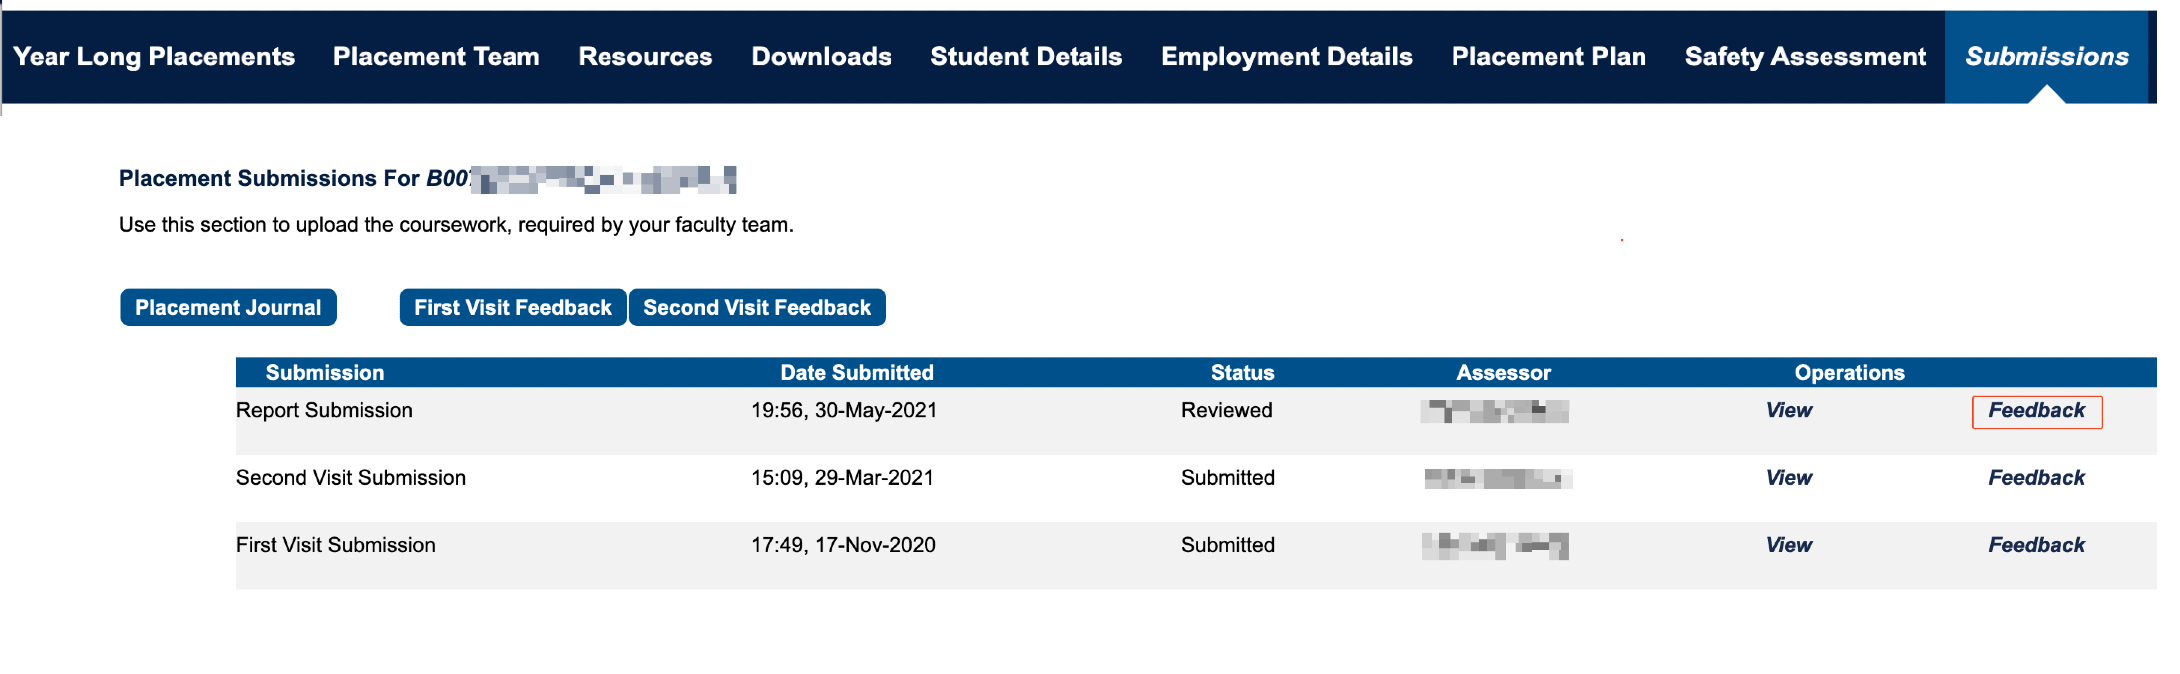
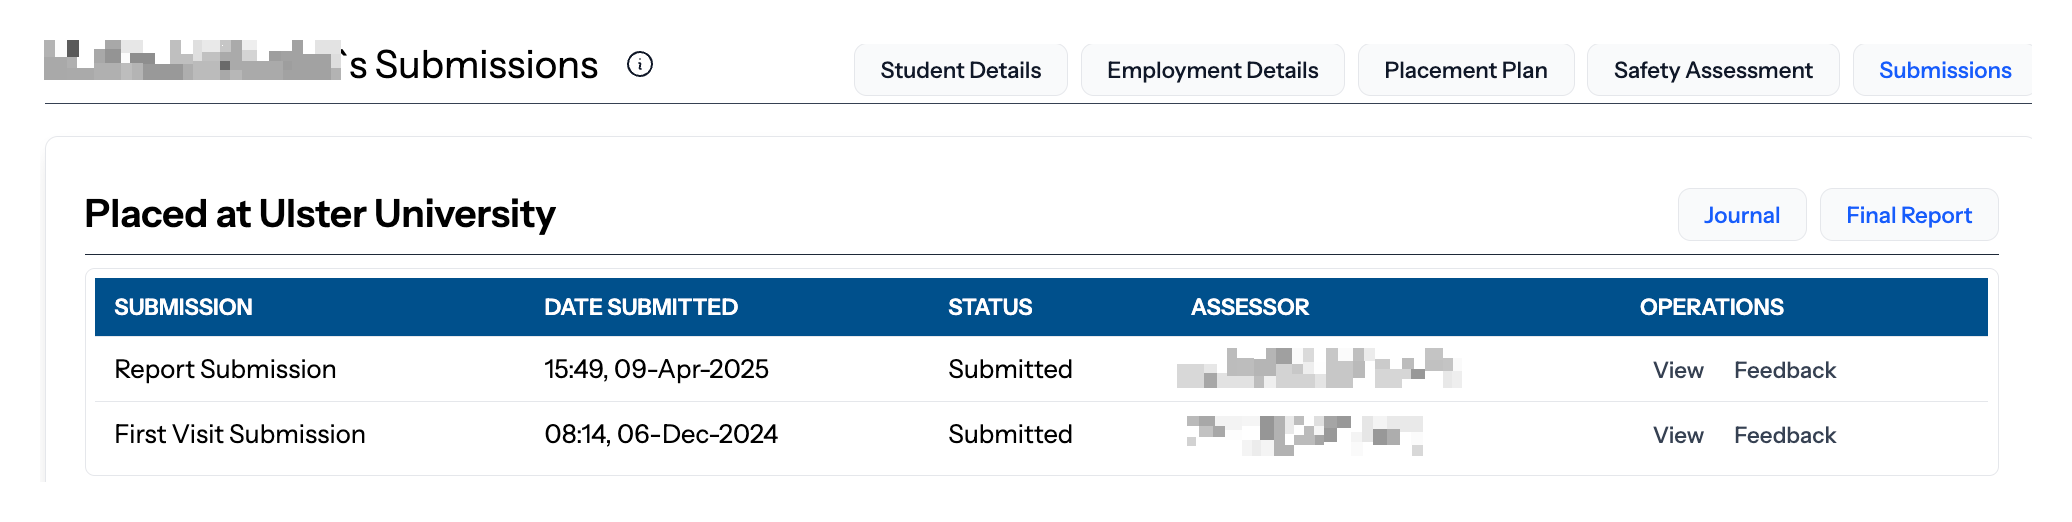
Updated to new Recruit Student UI

diff --git a/src/content/docs/recruit/student.md b/src/content/docs/recruit/student.md
@@ -25,47 +25,13 @@ Once you have been offered a placement post you need to log the offer on the Rec
 
 If you applied for the post via Handshake, then it will be recorded in your list of applications on Recruit.
 
-To log an application, navigate to **Year Long Placements**, then under **Applications** select the application you have been offered and click the **Confirm Offer** link.
+To log an application, navigate to **Applications**, then under **Placements** select the application you have been offered and click the **Confirm** link.
 
 ![img](/recruit/student/8-handshake-1.png)
 
 Now complete the form below and upload a document containing evidence that you have been offered the post.
 
 ![img](/recruit/student/8-handshake-2.png)
-
-### Unapproved Post
-
-Where a post was not advertised on Handshake it **must go through an approvals process** to have it verified as suitable. To log an application, navigate to **Year Long Placements**, then **Applications**, then **External Applications** as shown below.
-
-![img](/recruit/student/8-external-1.png)
-
-Then select **Log an External Application** as shown below
-
-![img](/recruit/student/8-external-2.png)
-
-Complete the application form shown below. Please provide as much detail as possible. You must also upload a document containing suitable evidence that the post has been offered as a placement (copy of a job offer - letter/email etc).
-
-![img](/recruit/student/8-external-3.png)
-
-### Confirming Offer
-
-If you have been offered an post logged via an external application you should select the post from the list of external applications and click the 'Confirm Offer' link as shown below.
-
-![img](/recruit/student/8-external-offer-1.png)
-
-You should then complete the form adding a supporting statement and upload a pdf containing evidence that you have been offered the post (copy of an offer letter/email, contract etc).
-
-![img](/recruit/student/8-external-offer-2.png)
-
-Once submitted the system will send the following confirmation email.
-
-![img](/recruit/student/8-external-offer-4.png)
-
-#### Retract Offer
-
-If for any reason you wish to retract a confirmed offer, then from the list of external applications, select the post and click the 'Retract Offer' link as shown below.
-
-![img](/recruit/student/8-external-offer-3.png)
 
 ### Confirmation Email
 
@@ -74,6 +40,45 @@ Once you have completed one of the above steps and your post has been approved, 
 ![img](/recruit/student/8-confirm-email.png)
 
 >⚠ **NOTE** You will only receive this email when your placement been approved
+
+### Retract Offer
+
+If for any reason you wish to retract a confirmed offer, then from the list of placement applications, select the post and click the **Retract** link as shown below.
+
+![img](/recruit/student/8-external-offer-3.png)
+
+### External Offer
+
+Where a post was not advertised on Handshake it is unapproved and **must go through an approvals process** to have it verified as suitable. To log an application, navigate to **Applications**, then **Placement**, then select the **External** tab as shown below, before finally clicking the **Log External Application** as shown below
+
+![img](/recruit/student/8-external-1.png)
+
+Complete the application form shown below. Please provide as much detail as possible. You must also upload a document containing suitable evidence that the post has been offered as a placement (copy of a job offer - letter/email etc).
+
+![img](/recruit/student/8-external-2.png)
+
+![img](/recruit/student/8-external-3.png)
+
+### Confirming Offer
+
+Once the external application has been logged, you may confirm you wish to accept this post by selecting it from the list of external applications, and click the 'Confirm Offer' link as shown below.
+
+![img](/recruit/student/8-external-offer-1.png)
+
+You should then complete the form below, adding a supporting statement and upload a pdf containing evidence that you have been offered the post (copy of an offer letter/email, contract etc).
+
+![img](/recruit/student/8-external-offer-2.png)
+
+Once submitted the system will send the following confirmation email.
+
+![img](/recruit/student/8-external-offer-4.png)
+
+
+### Retract Offer
+
+If for any reason you wish to retract a confirmed offer, then from the list of external applications, select the post and click the **Retract Confirmation** link as shown below.
+
+![img](/recruit/student/8-external-offer-5.png)
 
 ## Starting Placement
 
@@ -93,9 +98,19 @@ This includes details relating to your placement (employer, role, start end date
 
 ![img](/recruit/student/2-employment.png)
 
-Select **Edit Placement Details** to update any missing or incorrect placement details and **Industrial Supervisor** to select your industrial supervisor. If they are not listed then you can add a new industrial supervisor. 
+Select **Edit** button within the **Placement Details** section to update any missing or incorrect placement details. 
 
-![img](/recruit/student/2-employment-edit.png)
+![img](/recruit/student/2-employment-edit-1.png)
+
+Within the **Industrial Supervisor** section, click the **Select** button to choose a supervisor. 
+
+![img](/recruit/student/2-employment-edit-2.png)
+
+If they are not listed then you can add a new industrial supervisor by clicking **Add New Supervisor**. 
+
+![img](/recruit/student/2-employment-edit-3.png)
+
+To update an existing supervisor click the **Change** or **Edit** options.
 
 ### Placement Plan
 
@@ -115,7 +130,7 @@ Your safety whilst on placement is of paramount importance and thus it is essent
 
 >⚠  **NOTE:** Recruit will send reminder emails to students, until these actions are completed.
 
-### Resources & Downloads
+### Resources / Downloads
 
 During the placement the student may be directed to various placement related documents. These are available in the Resources and Downloads sections and examples are shown below.
 
@@ -159,6 +174,8 @@ New journal entries can be added by clicking the Journal Entry button and then f
 
 You can normally expect to be visited twice during your placement. The first visit will take place around November/December and the second visit around March/April. These dates may vary slightly depending on when your placement started.
 
+![img](/recruit/student/5-visit-1.png)
+
 >⚠ **NOTE** You must regularly check your University email account for communications from the placement team and your academic visitor and respond in a timely manner.
 
 At a visit, your academic visitor will normally:
@@ -174,29 +191,37 @@ At a visit, your academic visitor will normally:
 
 Once an academic visitor has scheduled a placement visit on Recruit, the student and the industrial supervisor are automatically emailed (email includes a calendar ICS file attachment).
 
-![img](/recruit/student/5-visit-1.png)
+![img](/recruit/student/5-visit-2.png)
 
-#### Placement Work Summary
+#### Work Summary
 
-The student should then upload the Placement Work Summary Form at least 48 hours before your first placement visit. Note the option to upload the form is not available until the academic supervisor schedules the visit **via Recruit**. If the upload does not appear then contact your academic supervisor and ask them to schedule the visit in Recruit.
+The student should then upload the Placement Work Summary Form at least 48 hours before your first placement visit. Note the option to upload the form is not available until the academic supervisor schedules the visit **via Recruit**. In the example below a second visit has been scheduled and the **Upload** button is now available. If **Upload** does not appear then contact your academic supervisor and ask them to schedule the visit in Recruit.
+
+![img](/recruit/student/5-visit-3.png)
 
 The Placement Work Summary Form template is available in the Recruit [downloads](/recruit/student/#resources--downloads) area.
 
 You can upload this document as often as required (over writing the original), up until the academic has submitted visit feedback and at which point the document can no longer be uploaded.
 
-![img](/recruit/student/5-visit-2.png)
+![img](/recruit/student/5-visit-4.png)
 
-#### Visit Feedback
 
-Once the visit has been completed the academic will upload their visit feedback and the student will receive and email alerting them to the fact that the feedback is now available.
+#### Feedback
+
+Once the visit has been completed the academic will upload their visit feedback and the student will receive and email alerting them to the fact that the feedback is now available. 
+
+![img](/recruit/student/5-visit-5.png)
+
+> Note - once the academic visitor has uploaded feedback you can no longer re-upload a Visit Submission form.
+
+In the example below you can view feedback provided for the first visit by clicking the **View** link.
 
 ![img](/recruit/student/5-visit-3.png)
 
-When you log in again you can no longer upload the First Visit Submission and instead can click the visit *View* button to review the feedback provided.
+Here you can now view details of the visit and view your work summary or the visit feedback form provided by your academic vistor, by clicking the relevant button.
 
-![img](/recruit/student/5-visit-4.png)
+![img](/recruit/student/5-visit-6.png)
 
-You should reflect, in your Placement Journal, upon any feedback you have been given.
 
 ### Final Report
 
@@ -204,11 +229,12 @@ In semester 2 (typically around the second placement visit) students will be con
 
 #### Upload Report
 
- To upload the report select the `Upload Placement Report` button in the Submissions section.
+ To upload the final placement report select the `Final Report` button in the Submissions section.
 
 ![img](/recruit/student/6-report-1.png)
 
-Then upload the report (in pdf format). As noted, you should not upload the report until informed by the Placement Tutor. Typically report notifications are send out around late April, with report submissions to be made by end of May.
+Then upload the report (in pdf format). As noted, you should not upload the report until informed by the Placement Tutor. Typically report notifications are send out around late April, with report submissions to be made by end of May. 
+> These dates may vary between schools/faculties. Please check your placement handbook.
 
 ![img](/recruit/student/6-report-2.png)
 
